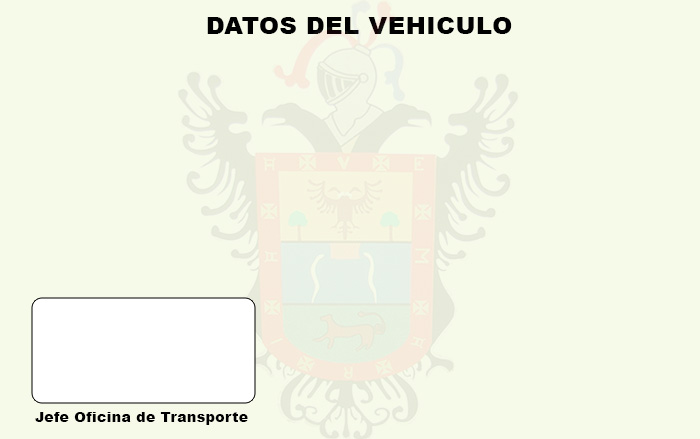
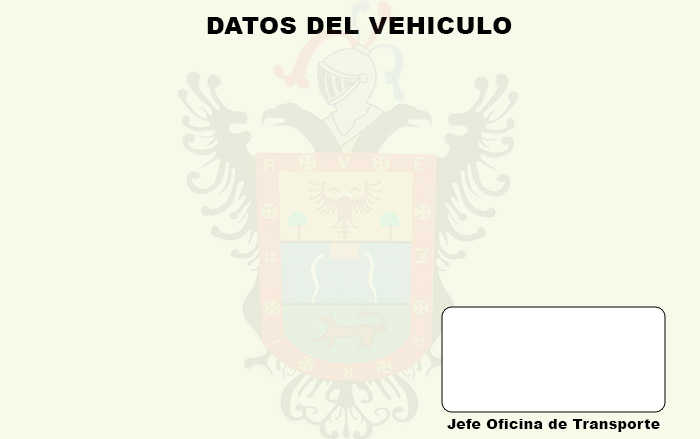
impresion para revisar terminada

diff --git a/reporte/views.py b/reporte/views.py
@@ -24,8 +24,18 @@ def normal_custom(size, alignment):
         name = 'normal_custom_%s' % str(size),
         fontName = 'Helvetica',
         fontSize = size,
-        alignment = alignment
+        alignment = alignment,
+        leading= 9.5
     )
+
+def normal_custom2(size, alignment):
+    return ParagraphStyle(
+        name = 'normal_custom_%s' % str(size),
+        fontName = 'Helvetica',
+        fontSize = size,
+        alignment = alignment,
+    )
+
 
 def negrita_custom(size, alignment):
     return ParagraphStyle(
@@ -64,20 +74,20 @@ class ImpresionTarjeta:
         canvas.saveState()
         canvas.setPageSize(self.pagesize)
         
-        logo = 'logo/pag1.jpg'
+        logo = 'static/pag1.jpg'
         canvas.drawImage(logo, 0 * cm, 0 * cm, width = (8.5 * cm), height = (5.28 * cm))
 
         categoria = Paragraph(u'Vigencia', negrita_custom(8.5, TA_LEFT))
         w, h = categoria.wrap(doc.width, doc.topMargin)
-        categoria.drawOn(canvas, 52 * mm, 16.9 * mm)
+        categoria.drawOn(canvas, 52 * mm, 32.9 * mm)
 
         categoria = Paragraph(self.tarjeta.fecha_expedicion.strftime('%d/%m/%Y'), normal_custom(8.5, TA_LEFT))
         w, h = categoria.wrap(doc.width, doc.topMargin)
-        categoria.drawOn(canvas, 53 * mm, 12.5 * mm)
+        categoria.drawOn(canvas, 42 * mm, 29.5 * mm)
 
         categoria = Paragraph(self.tarjeta.fecha.strftime('%d/%m/%Y'), normal_custom(8.5, TA_LEFT))
         w, h = categoria.wrap(doc.width, doc.topMargin)
-        categoria.drawOn(canvas, 53 * mm, 12.5 * mm)
+        categoria.drawOn(canvas, 60 * mm, 29.5 * mm)
 
         canvas.restoreState()
 
@@ -88,45 +98,25 @@ class ImpresionTarjeta:
         logo = 'static/pag2.jpg'
         canvas.drawImage(logo, 0 * cm, 0 * cm, width = (8.5 * cm), height = (5.28 * cm))
 
-        asientos = Paragraph(u'Asientos', negrita_custom(8.5, TA_LEFT))
+        asientos = Paragraph(u'Asientos: <strong>'+str(self.tarjeta.asientos)+'</strong>', normal_custom(8.5, TA_LEFT))
         w, h = asientos.wrap(doc.width, doc.topMargin)
-        asientos.drawOn(canvas, 52 * mm, 56.9 * mm)
+        asientos.drawOn(canvas, 52 * mm, 44.1 * mm)
 
-        asientos = Paragraph(str(self.tarjeta.asientos), normal_custom(8.5, TA_LEFT))
-        w, h = asientos.wrap(doc.width, doc.topMargin)
-        asientos.drawOn(canvas, 56 * mm, 52.5 * mm)
-
-        cilindros = Paragraph(u'Cilindros', negrita_custom(8.5, TA_LEFT))
+        cilindros = Paragraph(u'Cilindros: <strong>'+self.tarjeta.cilindro+'</strong>', normal_custom(8.5, TA_LEFT))
         w, h = cilindros.wrap(doc.width, doc.topMargin)
-        cilindros.drawOn(canvas, 52 * mm, 46.9 * mm)
+        cilindros.drawOn(canvas, 52 * mm, 40.9 * mm)
 
-        cilindros = Paragraph(self.tarjeta.cilindro, normal_custom(8.5, TA_LEFT))
-        w, h = cilindros.wrap(doc.width, doc.topMargin)
-        cilindros.drawOn(canvas, 56 * mm, 42.5 * mm)
-
-        ruedas = Paragraph(u'Ruedas', negrita_custom(8.5, TA_LEFT))
+        ruedas = Paragraph(u'Ruedas: <strong>'+str(self.tarjeta.ruedas)+'</strong>', normal_custom(8.5, TA_LEFT))
         w, h = ruedas.wrap(doc.width, doc.topMargin)
-        ruedas.drawOn(canvas, 52 * mm, 36.9 * mm)
+        ruedas.drawOn(canvas, 52 * mm, 37.8 * mm)
 
-        ruedas = Paragraph(str(self.tarjeta.ruedas), normal_custom(8.5, TA_LEFT))
-        w, h = ruedas.wrap(doc.width, doc.topMargin)
-        ruedas.drawOn(canvas, 56 * mm, 32.5 * mm)
-
-        pesoneto = Paragraph(u'Peso Neto kg:', negrita_custom(8.5, TA_LEFT))
+        pesoneto = Paragraph(u'Peso Neto kg: <strong>'+str(self.tarjeta.peso_seco)+'</strong>', normal_custom(8.5, TA_LEFT))
         w, h = pesoneto.wrap(doc.width, doc.topMargin)
-        pesoneto.drawOn(canvas, 52 * mm, 26.9 * mm)
+        pesoneto.drawOn(canvas, 52 * mm, 34.7 * mm)
 
-        pesoneto = Paragraph(str(self.tarjeta.peso_seco), normal_custom(8.5, TA_LEFT))
-        w, h = pesoneto.wrap(doc.width, doc.topMargin)
-        pesoneto.drawOn(canvas, 56 * mm, 22.5 * mm)
-
-        pesobruto = Paragraph(u'Peso Bruto kg:', negrita_custom(8.5, TA_LEFT))
+        pesobruto = Paragraph(u'Peso Bruto kg: <strong>'+str(self.tarjeta.peso_bruto)+'</strong>', normal_custom(8.5, TA_LEFT))
         w, h = pesobruto.wrap(doc.width, doc.topMargin)
-        pesobruto.drawOn(canvas, 52 * mm, 16.9 * mm)
-
-        pesobruto = Paragraph(str(self.tarjeta.peso_bruto), normal_custom(8.5, TA_LEFT))
-        w, h = pesobruto.wrap(doc.width, doc.topMargin)
-        pesobruto.drawOn(canvas, 56 * mm, 12.5 * mm)
+        pesobruto.drawOn(canvas, 52 * mm, 31.2 * mm)
 
         canvas.restoreState()
 
@@ -135,8 +125,8 @@ class ImpresionTarjeta:
         buffer = self.buffer
         #topMargin = 13 * mm,leftMargin = 23 * mm,rightMargin = 3 * mm,bottomMargin = 1 * mm,showBoundary = 1
         pHeight, pWidth = self.pagesize
-        frame1 = Frame(24 * mm, -13 * mm, pHeight, pWidth, id='frame1')
-        frame2 = Frame(4 * mm, -2 * mm, pHeight, pWidth, id='frame2')
+        frame1 = Frame(3 * mm, -18 * mm, pHeight, pWidth, id='frame1')
+        frame2 = Frame(3 * mm, -3 * mm, pHeight, pWidth, id='frame2')
 
         primera_hoja = PageTemplate(id='primera_hoja',
                                             frames=[frame1],
@@ -148,95 +138,57 @@ class ImpresionTarjeta:
 
         elements = []
 
-        p = Paragraph('Placa', negrita_custom(8.5, TA_LEFT))
+        p = Paragraph('Placa: <strong>' + self.tarjeta.placa +'</strong>', normal_custom2(8.5, TA_LEFT))
         elements.append(p)
 
-        p = Paragraph(self.tarjeta.placa, normal_custom(8.5, TA_LEFT))
+        p = Paragraph('Razon Social: <strong>' + self.tarjeta.resolucion_autorizacion.razon_social.razon_social +'</strong>', normal_custom2(8.5, TA_LEFT))
         elements.append(p)
 
-        p = Paragraph('Razon Social', negrita_custom(8.5, TA_LEFT))
+        p = Paragraph('Propietario: <strong>' + self.tarjeta.propietario + '</strong>' , normal_custom2(8.5, TA_LEFT))
         elements.append(p)
 
-        p = Paragraph(self.tarjeta.resolucion_autorizacion.razon_social.razon_social, normal_custom(8.5, TA_LEFT))
+        p = Paragraph('Fecha de Expedicion: <strong>' + str(self.tarjeta.fecha_expedicion) + '</strong>', normal_custom2(8.5, TA_LEFT))
         elements.append(p)
 
-        p = Paragraph('Propietario', negrita_custom(8.5, TA_LEFT))
-        elements.append(p)
-
-        p = Paragraph(str(self.tarjeta.propietario), normal_custom(8.5, TA_LEFT))
-        elements.append(p)
 
         elements.append(NextPageTemplate('segunda_hoja'))
         elements.append(PageBreak())
         
 
-        p = Paragraph('Clase', negrita_custom(8.5, TA_LEFT))
+        p = Paragraph('Clase: <strong>'+ self.tarjeta.clase +'</strong>' , normal_custom(8.5, TA_LEFT))
         elements.append(p)
 
-        p = Paragraph(self.tarjeta.clase, normal_custom(8.5, TA_LEFT))
+        p = Paragraph('Marca: <strong>'+ self.tarjeta.marca +'</strong>', normal_custom(8.5, TA_LEFT))
         elements.append(p)
 
-        p = Paragraph('Marca', negrita_custom(8.5, TA_LEFT))
+        p = Paragraph('Modelo: <strong>'+ self.tarjeta.modelo +'</strong>', normal_custom(8.5, TA_LEFT))
         elements.append(p)
 
-        p = Paragraph(self.tarjeta.marca, normal_custom(8.5, TA_LEFT))
+        p = Paragraph('Año Fabricacion: <strong>'+ str(self.tarjeta.anio_fabricacion)+'</strong>', normal_custom(8.5, TA_LEFT))
         elements.append(p)
 
-        p = Paragraph('Modelo', negrita_custom(8.5, TA_LEFT))
+        p = Paragraph('Color: <strong>'+ self.tarjeta.color+'</strong>', normal_custom(8.5, TA_LEFT))
         elements.append(p)
 
-        p = Paragraph(self.tarjeta.modelo, normal_custom(8.5, TA_LEFT))
+        p = Paragraph('Pasajeros: <strong>'+ str(self.tarjeta.pasajeros)+'</strong>', normal_custom(8.5, TA_LEFT))
         elements.append(p)
 
-        p = Paragraph(u'Año Fabricacion', negrita_custom(8.5, TA_LEFT))
+        p = Paragraph('Motor Nro: <strong>'+self.tarjeta.nro_motor+'</strong>', normal_custom(8.5, TA_LEFT))
         elements.append(p)
 
-        p = Paragraph(str(self.tarjeta.anio_fabricacion), normal_custom(8.5, TA_LEFT))
+        p = Paragraph('Serie Nro: <strong>'+self.tarjeta.nro_serie+'</strong>', normal_custom(8.5, TA_LEFT))
         elements.append(p)
 
-        p = Paragraph('Color', negrita_custom(8.5, TA_LEFT))
+        p = Paragraph('Ruta: <strong>'+str(self.tarjeta.nro_ruta)+'</strong>', normal_custom(8.5, TA_LEFT))
         elements.append(p)
 
-        p = Paragraph(self.tarjeta.color, normal_custom(8.5, TA_LEFT))
+        p = Paragraph('Origen: <strong>'+ self.tarjeta.origen+'</strong>', normal_custom(8.5, TA_LEFT))
         elements.append(p)
 
-        p = Paragraph('Pasajeros', negrita_custom(8.5, TA_LEFT))
+        p = Paragraph('Poliza de Seguros: <strong>'+self.tarjeta.poliza_seguro+'</strong>', normal_custom(8.5, TA_LEFT))
         elements.append(p)
 
-        p = Paragraph(str(self.tarjeta.pasajeros), normal_custom(8.5, TA_LEFT))
-        elements.append(p)
-
-        p = Paragraph('Motor Nro', negrita_custom(8.5, TA_LEFT))
-        elements.append(p)
-
-        p = Paragraph(self.tarjeta.nro_motor, normal_custom(8.5, TA_LEFT))
-        elements.append(p)
-
-        p = Paragraph('Serie Nro', negrita_custom(8.5, TA_LEFT))
-        elements.append(p)
-
-        p = Paragraph(self.tarjeta.nro_serie, normal_custom(8.5, TA_LEFT))
-        elements.append(p)
-
-        p = Paragraph('Ruta', negrita_custom(8.5, TA_LEFT))
-        elements.append(p)
-
-        p = Paragraph(str(self.tarjeta.nro_ruta), normal_custom(8.5, TA_LEFT))
-        elements.append(p)
-
-        p = Paragraph('Origen', negrita_custom(8.5, TA_LEFT))
-        elements.append(p)
-
-        p = Paragraph(self.tarjeta.origen, normal_custom(8.5, TA_LEFT))
-        elements.append(p)
-
-        p = Paragraph('Poliza de Seguros', negrita_custom(8.5, TA_LEFT))
-        elements.append(p)
-
-        p = Paragraph(self.tarjeta.poliza_seguro, normal_custom(8.5, TA_LEFT))
-        elements.append(p)
-
-        p = Paragraph('Numero de Resolucion', negrita_custom(8.5, TA_LEFT))
+        p = Paragraph('Numero de Resolucion: <strong>'+str(self.tarjeta.resolucion_autorizacion)+'</strong>', normal_custom(8.5, TA_LEFT))
         elements.append(p)
 
         #p = Paragraph(self.tarjeta.resolucion_autorizacion, normal_custom(8.5, TA_LEFT))
